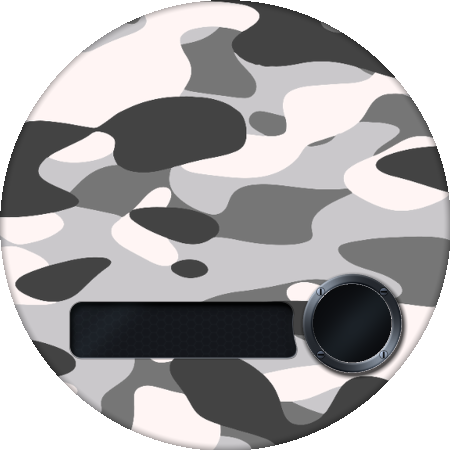
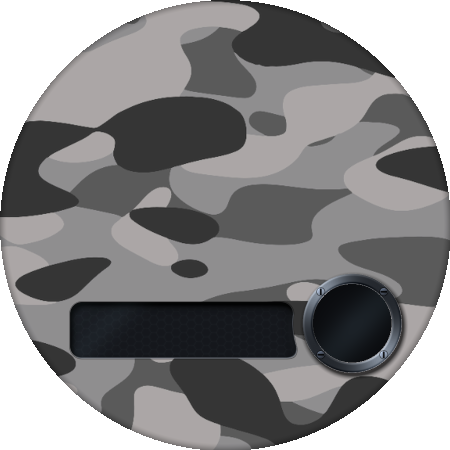
Darken Arctic Camo background especially brighter hues (v4.6)

diff --git a/generate_clean_backgrounds_and_quad_chambers.py b/generate_clean_backgrounds_and_quad_chambers.py
@@ -641,6 +641,12 @@ y1 = (h_src - ch) / 2.0
 camo_arctic_cropped = camo_arctic_src.crop((int(round(x1)), int(round(y1)), int(round(x1 + cw)), int(round(y1 + ch))))
 camo_arctic_resized = camo_arctic_cropped.resize((W, H), Image.Resampling.LANCZOS)
 arr_arctic = np.array(camo_arctic_resized, dtype=float)
+
+# Tone-map arctic camo to make it darker, especially the brighter hues (compress highlight glare)
+norm_arctic = arr_arctic / 255.0
+darkened_arctic = (0.842 * norm_arctic - 0.168 * (norm_arctic ** 2)) * 255.0
+arr_arctic = np.clip(darkened_arctic, 0, 255)
+
 vig_arctic = np.array(vig_map).reshape((H, W))
 disc_arctic = np.array(inside_disc).reshape((H, W))
 
